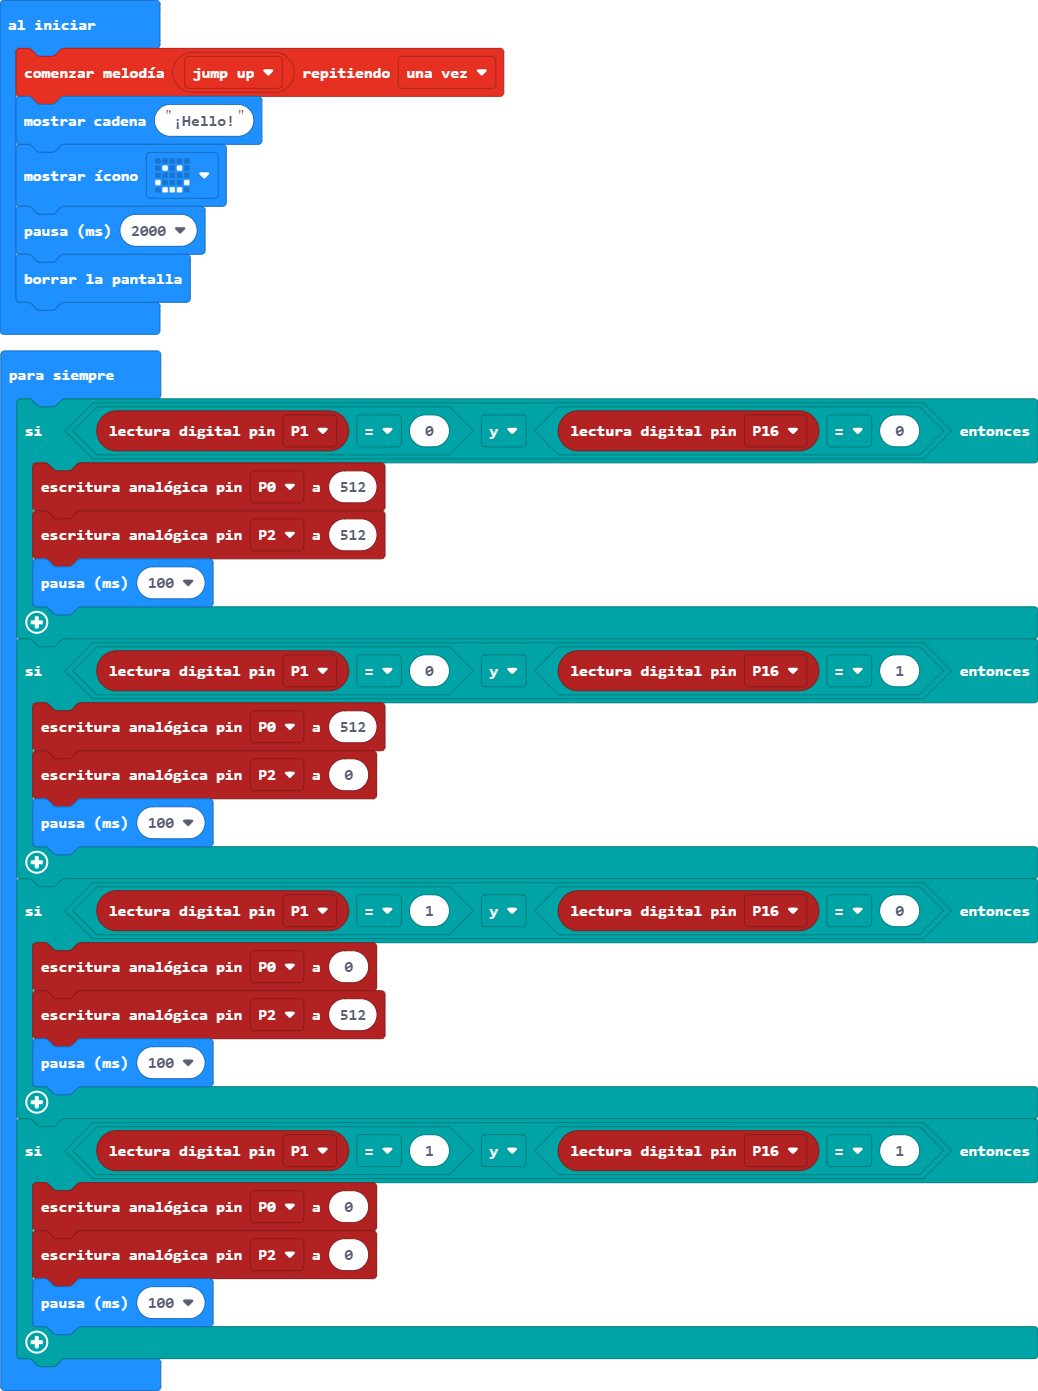
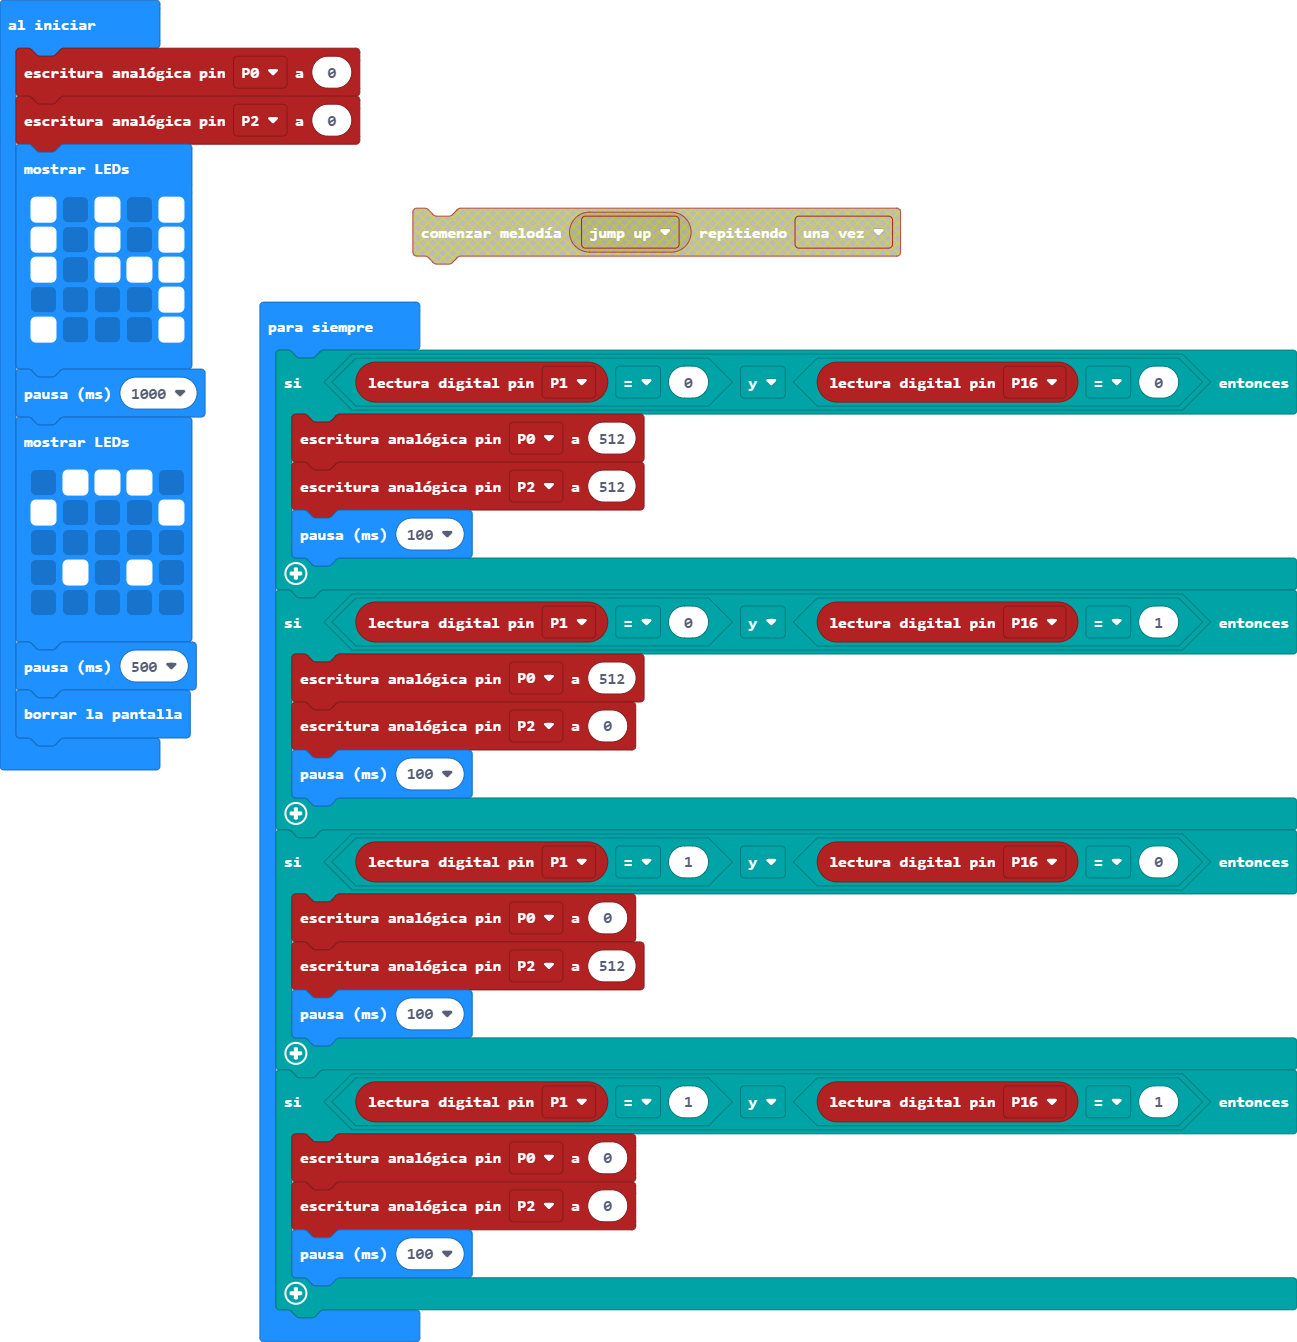
Actualizar main.blocks, main.ts

diff --git a/main.ts b/main.ts
@@ -1,7 +1,21 @@
-music.startMelody(music.builtInMelody(Melodies.JumpUp), MelodyOptions.Once)
-basic.showString("¡Hello!")
-basic.showIcon(IconNames.Happy)
-basic.pause(2000)
+pins.analogWritePin(AnalogPin.P0, 0)
+pins.analogWritePin(AnalogPin.P2, 0)
+basic.showLeds(`
+    # . # . #
+    # . # . #
+    # . # # #
+    . . . . #
+    # . . . #
+    `)
+basic.pause(1000)
+basic.showLeds(`
+    . # # # .
+    # . . . #
+    . . . . .
+    . # . # .
+    . . . . .
+    `)
+basic.pause(500)
 basic.clearScreen()
 basic.forever(function () {
     if (pins.digitalReadPin(DigitalPin.P1) == 0 && pins.digitalReadPin(DigitalPin.P16) == 0) {
